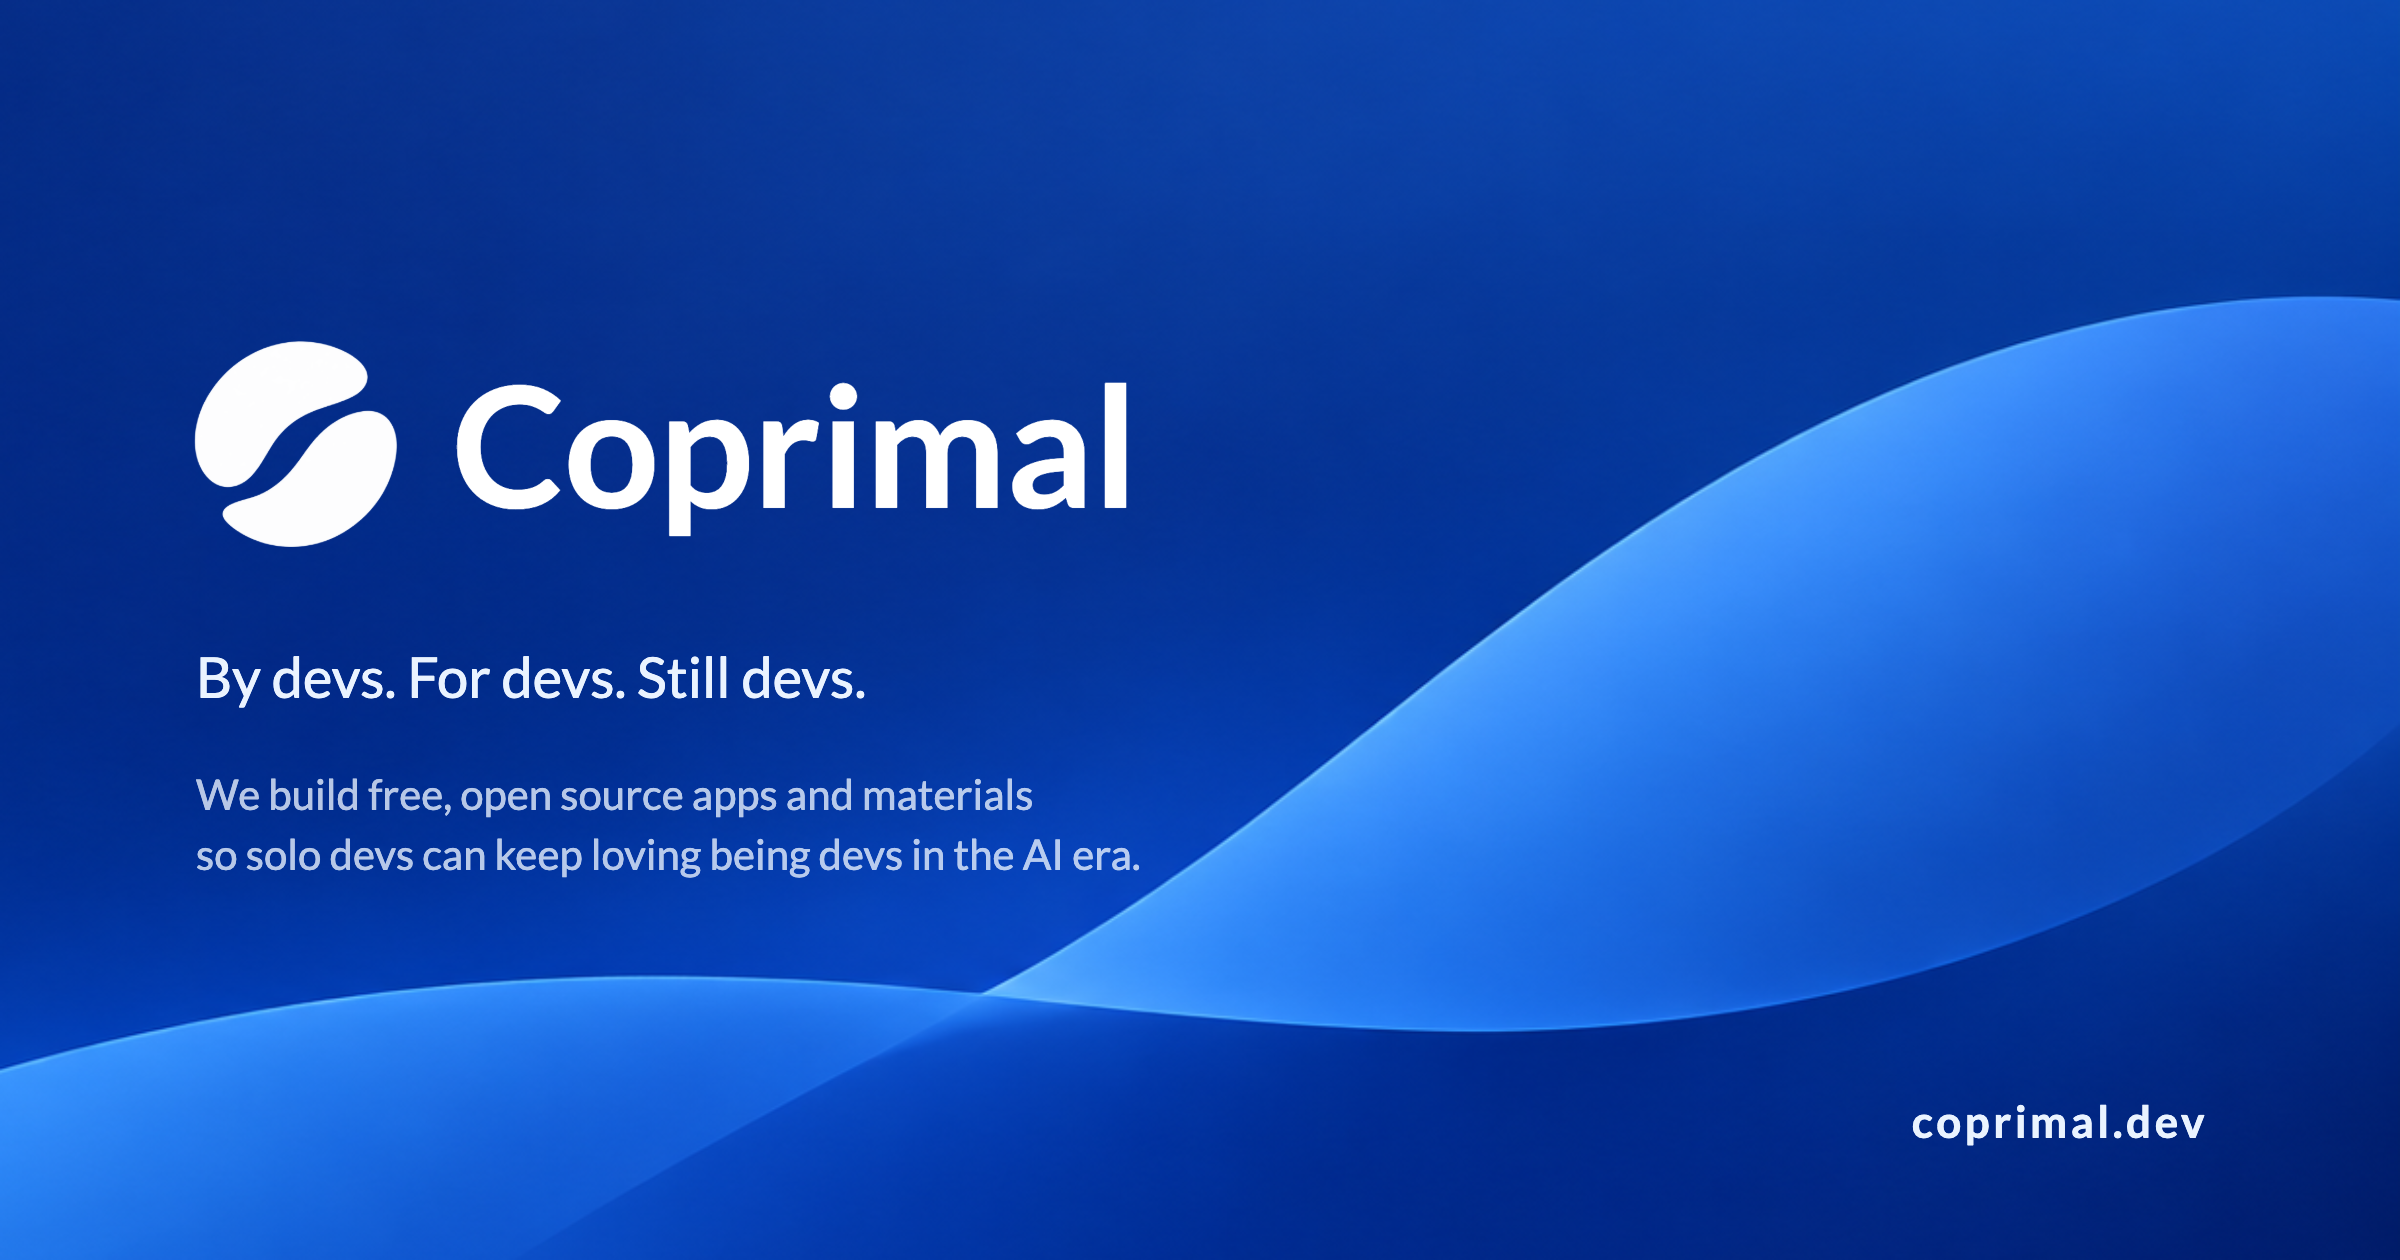
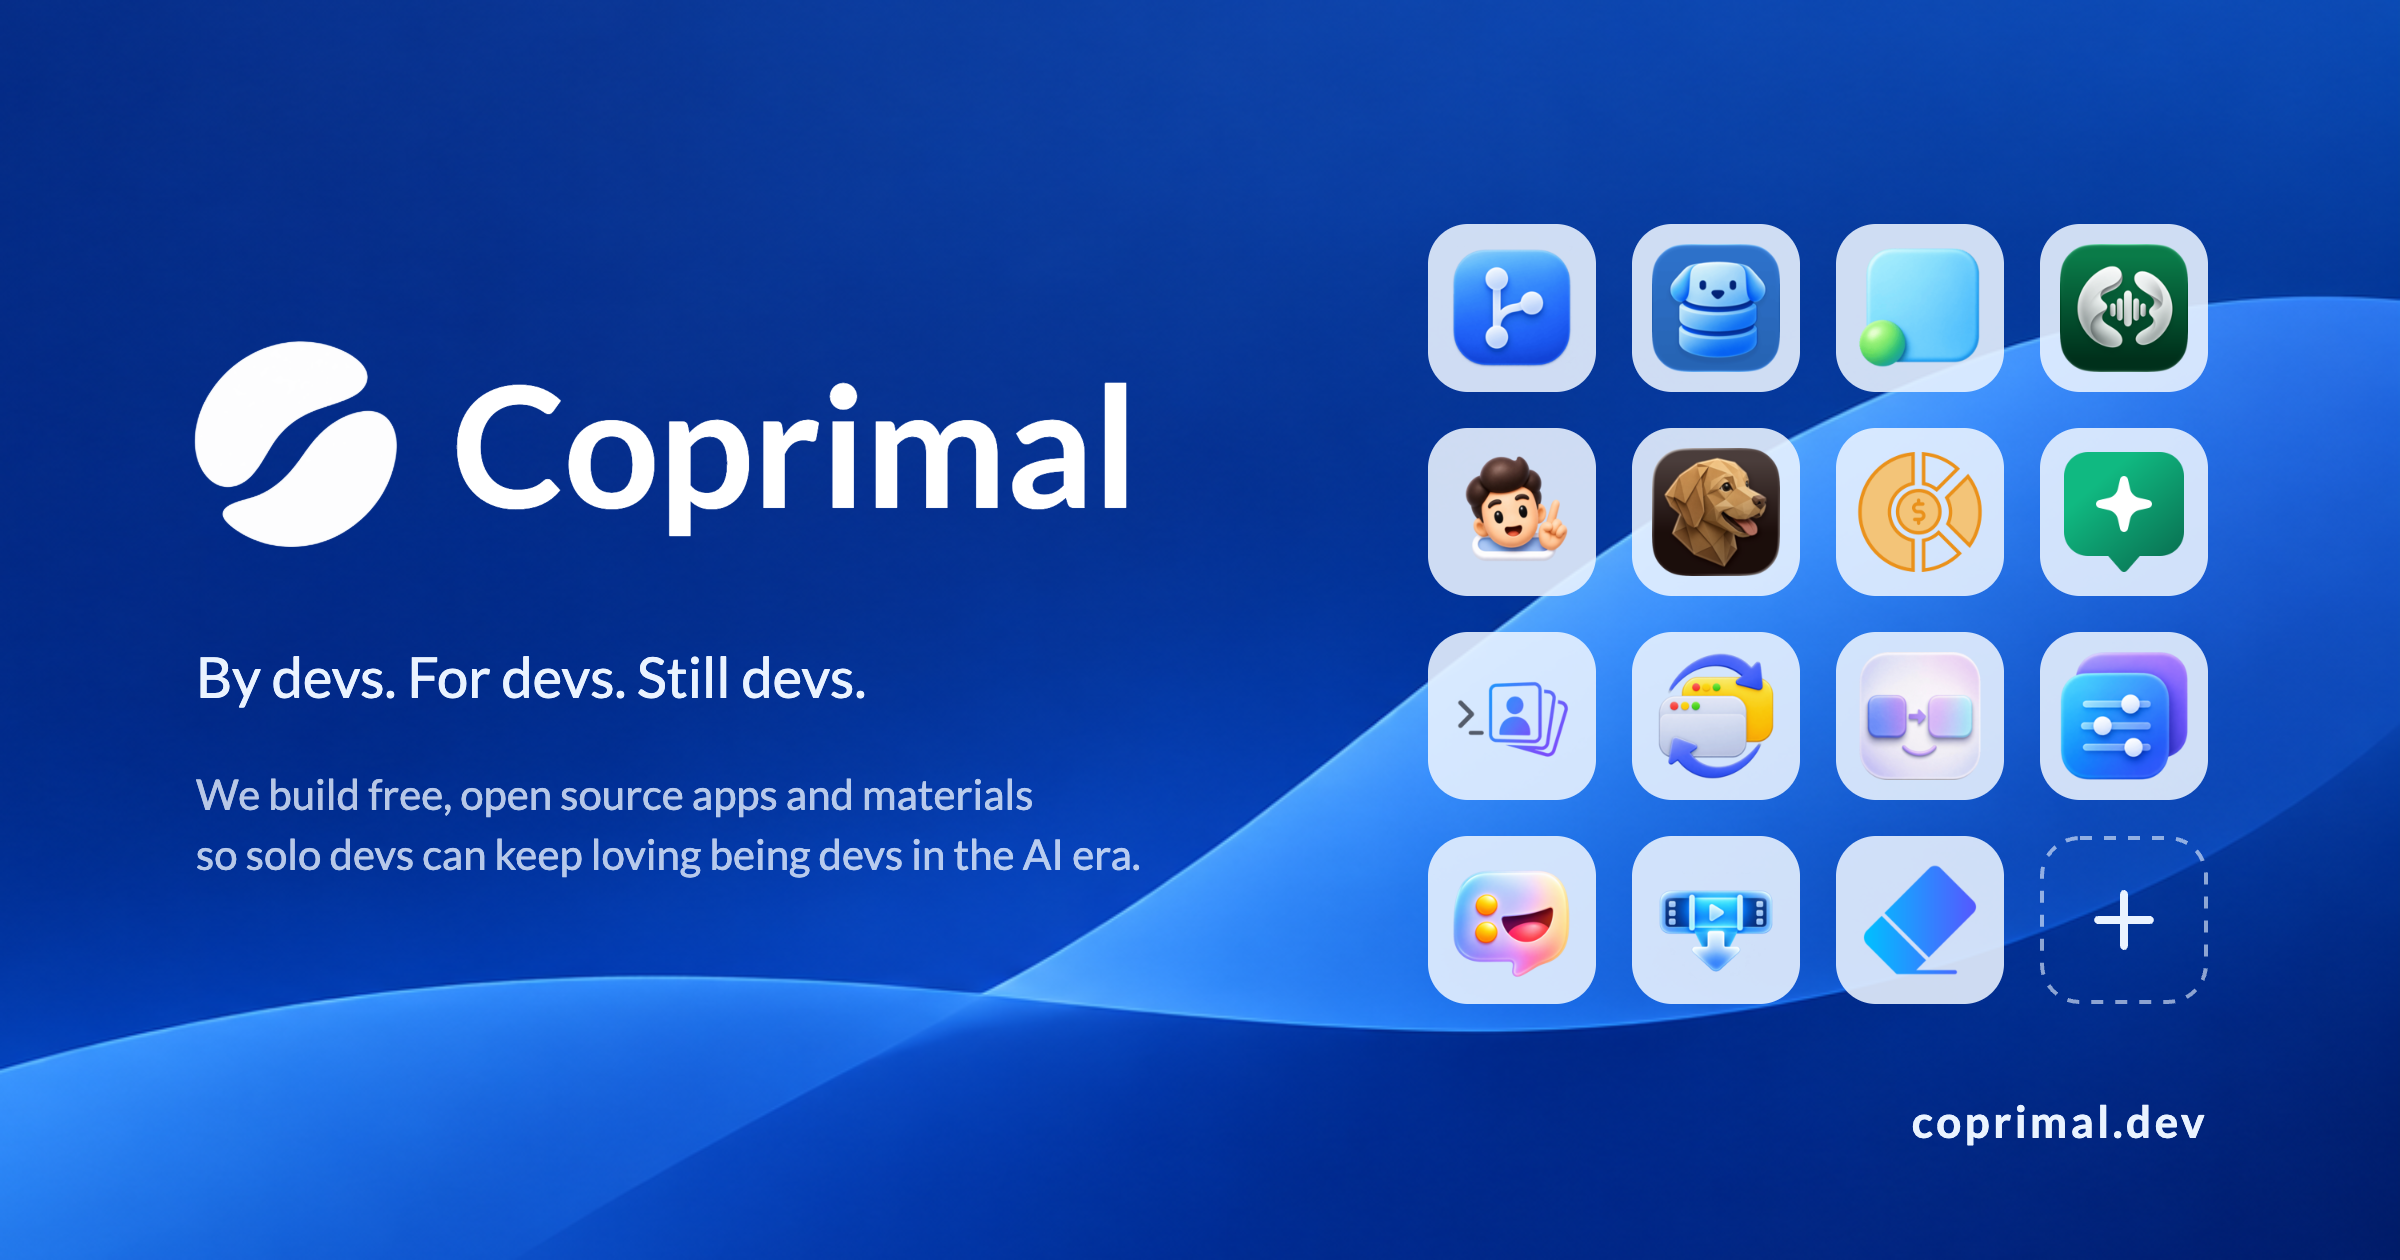
docs(poster): add the Coprimal apps and a "more" slot

Changed region(s): [[0.5938, 0.3405, 0.9375, 0.8048], [0.5938, 0.1548, 0.9375, 0.3095], [0.875, 0.7119, 0.9062, 0.7429]]

diff --git a/docs/showcase/source/poster.html b/docs/showcase/source/poster.html
@@ -95,6 +95,45 @@
         letter-spacing: 0.08em;
         color: var(--mist);
       }
+      /* The apps, as on coprimal.dev's tool cards, on a 4×4 shelf over the waves, centred on the text block
+         (lockup top 170 → about bottom ≈ 443). The last slot is always "+": more apps than the shelf shows. */
+      .apps {
+        position: absolute;
+        right: 96px;
+        top: 112px;
+        display: grid;
+        grid-template-columns: repeat(4, 84px);
+        grid-auto-rows: 84px;
+        gap: 18px;
+        margin: 0;
+        padding: 0;
+        list-style: none;
+      }
+      /* One Mist plate behind every icon: on a faint frosted slot the blue icons and face-grouper's
+         line drawing sank into the light wave at link-preview size (600×315) */
+      .apps li {
+        display: grid;
+        place-items: center;
+        border-radius: 20px;
+        background: rgb(234 243 255 / 0.88);
+      }
+      /* The icons are 160 px: 64 CSS px keeps them sharp in the 2× PNG; non-square ones keep their ratio */
+      .apps img {
+        width: 64px;
+        height: 64px;
+        object-fit: contain;
+        display: block;
+      }
+      .apps .more {
+        background: none;
+      }
+      .apps .more svg {
+        width: 84px;
+        height: 84px;
+        display: block;
+        fill: none;
+        stroke: var(--mist);
+      }
     </style>
   </head>
   <body>
@@ -106,6 +145,31 @@
       <p class="tagline" data-k="tagline"></p>
       <p class="about" data-k="about"></p>
       <p class="url" data-k="url"></p>
+      <!-- coprimal.dev's tools in site order (its index.html), icons from its assets/projects/ -->
+      <ul class="apps">
+        <li><img src="assets/apps/histq-icon.png" alt="Histq" /></li>
+        <li><img src="assets/apps/dblore-icon.png" alt="Dblore" /></li>
+        <li><img src="assets/apps/dotlore-icon.png" alt="Dotlore" /></li>
+        <li><img src="assets/apps/echodiar-icon.png" alt="EchoDiar" /></li>
+        <li><img src="assets/apps/popguy-icon.png" alt="PopGuy" /></li>
+        <li><img src="assets/apps/memlore-icon.png" alt="Memlore" /></li>
+        <li><img src="assets/apps/xpense-icon.png" alt="Xpense" /></li>
+        <li><img src="assets/apps/codingfriend-icon.png" alt="Coding Friend" /></li>
+        <li><img src="assets/apps/facegrouper-icon.png" alt="face-grouper" /></li>
+        <li><img src="assets/apps/cmdtab-icon.png" alt="CmdTab" /></li>
+        <li><img src="assets/apps/simplemapper-icon.png" alt="SimpleMapper" /></li>
+        <li><img src="assets/apps/opendisplay-icon.png" alt="OpenDisplay" /></li>
+        <li><img src="assets/apps/fastmoji-icon.png" alt="FastMoji" /></li>
+        <li><img src="assets/apps/segdown-icon.png" alt="SegDown" /></li>
+        <li><img src="assets/apps/quickclear-icon.png" alt="Quick Clear" /></li>
+        <!-- "and more": the dashed "+" of coprimal.dev's "Your tool here" card -->
+        <li class="more" aria-label="and more">
+          <svg viewBox="0 0 84 84" aria-hidden="true">
+            <rect x="1" y="1" width="82" height="82" rx="19" stroke-width="2" stroke-dasharray="6 6" stroke-opacity="0.6" />
+            <path d="M42 29v26M29 42h26" stroke-width="4" stroke-linecap="round" />
+          </svg>
+        </li>
+      </ul>
     </div>
     <script>
       /* Copy: wordmark cased as in the brand lockup; tagline, about line and URL as given by the user. */
@@ -136,16 +200,25 @@
         await Promise.all([
           bg.decode(),
           document.getElementById("symbol").decode(),
+          ...[...document.querySelectorAll(".apps img")].map((img) => img.decode()),
           ...FONTS.map(({ family, weight }) =>
             document.fonts.load(`${weight} 64px "${family}"`, FONT_SAMPLE),
           ),
         ]);
         await document.fonts.ready;
         const frame = document.getElementById("frame").getBoundingClientRect();
-        for (const el of document.querySelectorAll(".lockup, [data-k]")) {
+        for (const el of document.querySelectorAll(".lockup, [data-k], .apps")) {
           const b = el.getBoundingClientRect();
           if (b.left < frame.left || b.right > frame.right || b.top < frame.top || b.bottom > frame.bottom)
             console.warn(`poster: "${el.className}" overflows the frame`);
+        }
+        /* The shelf keeps clear of the text by at least the mark's clear space (a quarter of its width) */
+        const apps = document.querySelector(".apps").getBoundingClientRect();
+        const clear = document.getElementById("symbol").getBoundingClientRect().width / 4;
+        for (const el of document.querySelectorAll(".lockup, [data-k]")) {
+          const b = el.getBoundingClientRect(); /* absolutely positioned, so it wraps its text */
+          if (b.left < apps.right + clear && b.right > apps.left - clear && b.top < apps.bottom + clear && b.bottom > apps.top - clear)
+            console.warn(`poster: "${el.className}" is within ${clear}px of the apps`);
         }
       })();
       window.__showcase = { ready, width: 1200, height: 630, fonts: FONTS, fontSample: FONT_SAMPLE, lang: LANG };

diff --git a/docs/showcase/source/README.md b/docs/showcase/source/README.md
@@ -1,16 +1,20 @@
 # Showcase source
 
-Re-renders `../coprimal-poster.png`: a 1200×630 poster (PNG at 2×, 2400×1260), built on `Coprimal_Brand_Identity.pdf`.
+Re-renders `../coprimal-poster.png`: a 1200×630 poster (PNG at 2×, 2400×1260), built on `Coprimal_Brand_Identity.pdf`, with the Coprimal apps on the right.
 
 `poster.html` holds everything:
 
 - Copy: the `STR` table (`en` only): "Coprimal" (wordmark, cased as in the brand lockup), "By devs. For devs. Still devs.", the about line "We build free, open source apps and materials so solo devs can keep loving being devs in the AI era." (two lines, broken after "materials") and "coprimal.dev".
 - Colors: the brand palette as CSS variables on `:root` (Deep Navy `#11376e`, Bright Navy `#225db4`, Sky `#73a7e8`, Mist `#eaf3ff`).
 - Font: Lato 700 (wordmark, URL) and 400 (tagline), loaded from Google Fonts (needs network).
-- Assets, copied from the repo's `assets/` into `source/assets/`:
+- Assets, copied from the repo's `assets/` into `source/assets/` (the app icons come from coprimal.dev, see below):
   - `banner.webp`: full-bleed background, scaled to 112% of the frame height and anchored right, so its waves sit right and bottom and the plain navy on the left carries the text.
   - `logo_white.png`: the symbol in the horizontal lockup (the guide's "white on dark navy surfaces").
 - `coprimal.dev` sits bottom-right because the bottom-left lies on the banner's light wave (contrast too low for small text).
+- The apps: a 4×4 shelf on the right (84 px slots, 18 px gaps, centred on the text block), one `<li>` per tool in the order of coprimal.dev's tool cards (`index.html`): Histq, Dblore, Dotlore, EchoDiar, PopGuy, Memlore, Xpense, Coding Friend, face-grouper, CmdTab, SimpleMapper, OpenDisplay, FastMoji, SegDown, Quick Clear. Math2IT is left out (learning materials, not an app).
+  - Icons in `assets/apps/`, copied from coprimal.dev's `assets/projects/*-icon.png`. They are 160 px, so they are drawn at 64 CSS px (sharp in the 2× PNG), never stretched.
+  - Each sits on a Mist plate (88%): on a faint frosted slot the blue icons and face-grouper's line drawing sank into the light wave at link-preview size.
+  - The last slot is always the dashed "+" (coprimal.dev's "Your tool here" card), with no count, so the poster stays true when more apps ship. With more than 15 apps, keep 15 icons and the "+"; the page warns if the shelf runs off the frame or comes within a quarter of the mark's width of the text.
 
 If the brand assets change, copy the new `assets/banner.webp` and `assets/logo_white.png` over the ones in `source/assets/` and re-render. The layout is fixed at 1200×630.
 
